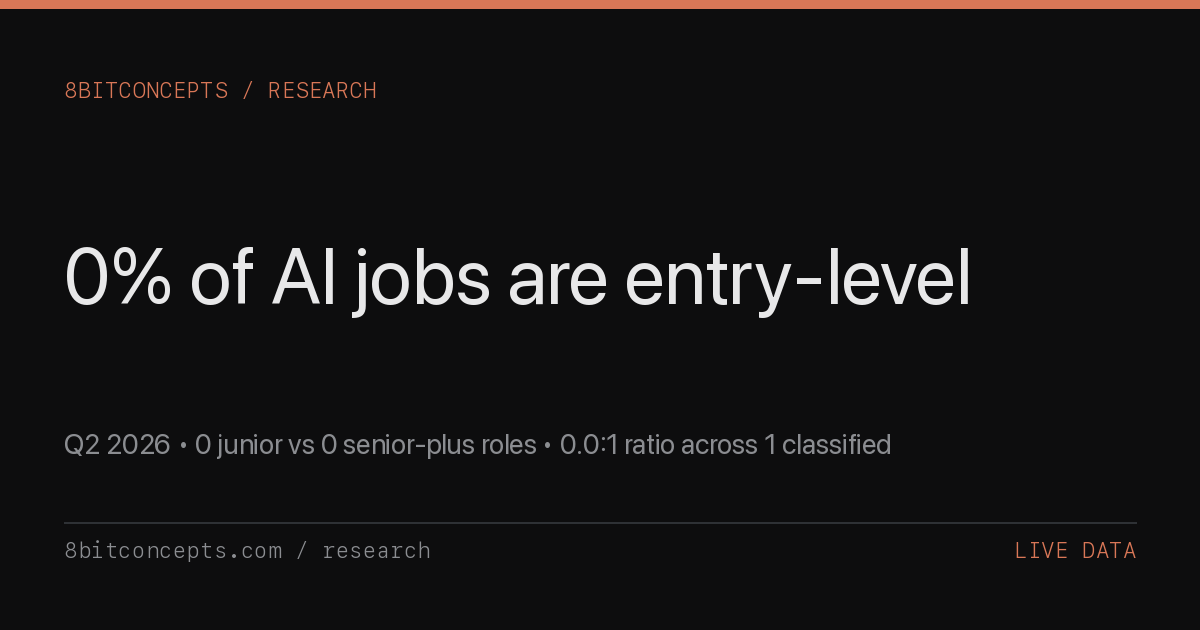
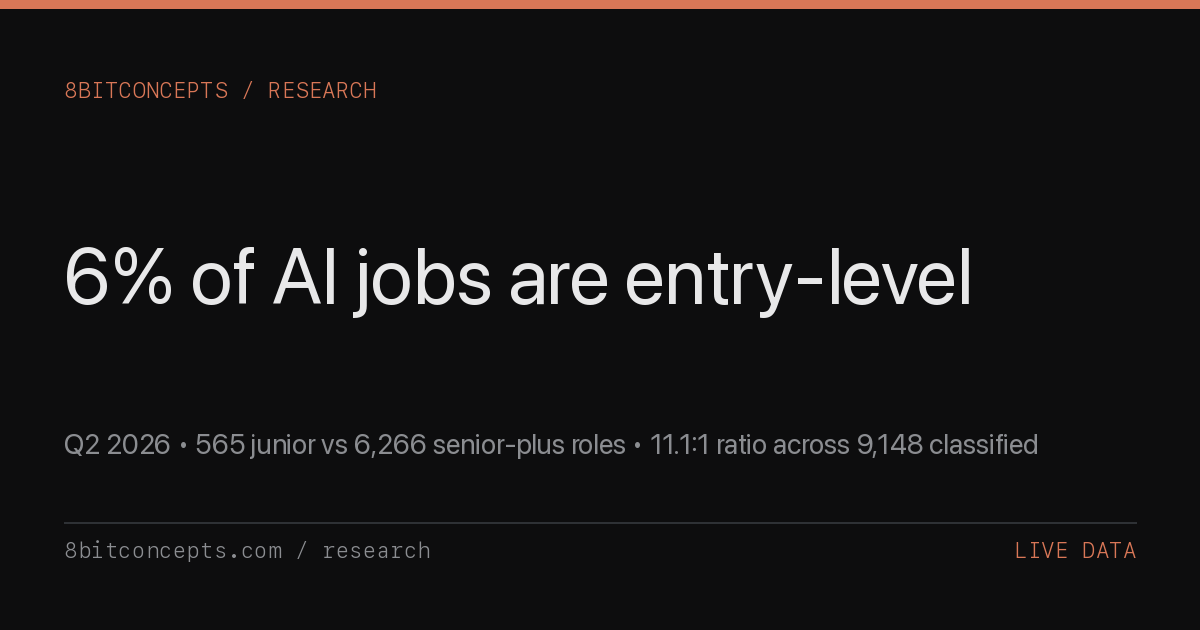
entry-level-gap: auto-regenerate 2026-07-27

diff --git a/research/q2-2026-entry-level-ai-gap.html b/research/q2-2026-entry-level-ai-gap.html
@@ -5,11 +5,11 @@
   <meta name="viewport" content="width=device-width, initial-scale=1.0" />
   <meta name="referrer" content="strict-origin-when-cross-origin" />
   <meta name="color-scheme" content="dark light" />
-  <meta name="last-updated" content="2026-07-20" />
+  <meta name="last-updated" content="2026-07-27" />
   <title>Q2 2026 The Junior AI Hiring Gap -- 8bitconcepts</title>
-  <meta name="description" content="Live analysis: only 0.0% of AI/ML engineering roles are open to juniors (0 of 1). &amp;infin;:1 senior-plus-to-junior ratio &amp;mdash; the tightest in tech. Why the squeeze exists, which companies still hire juniors, and the actionable path in. Auto-regenerated weekly." />
+  <meta name="description" content="Live analysis: only 6.2% of AI/ML engineering roles are open to juniors (565 of 9,148). 11.1:1 senior-plus-to-junior ratio &amp;mdash; the tightest in tech. Why the squeeze exists, which companies still hire juniors, and the actionable path in. Auto-regenerated weekly." />
   <meta property="og:title" content="Q2 2026 The Junior AI Hiring Gap -- 8bitconcepts" />
-  <meta property="og:description" content="0.0% of AI/ML roles are open to juniors. &amp;infin;:1 senior-plus ratio. 1 classified roles across 0 companies. Live data, 2026-07-20." />
+  <meta property="og:description" content="6.2% of AI/ML roles are open to juniors. 11.1:1 senior-plus ratio. 9,148 classified roles across 504 companies. Live data, 2026-07-27." />
   <meta property="og:type" content="article" />
   <meta property="og:url" content="https://8bitconcepts.com/research/q2-2026-entry-level-ai-gap.html" />
   <meta property="og:image" content="https://8bitconcepts.com/research/og/q2-2026-entry-level-ai-gap.png" />
@@ -17,7 +17,7 @@
   <meta property="og:image:height" content="630" />
   <meta name="twitter:card" content="summary_large_image" />
   <meta name="twitter:title" content="Q2 2026 The Junior AI Hiring Gap" />
-  <meta name="twitter:description" content="Only 0.0% of AI/ML jobs are entry-level. &amp;infin;:1 senior-plus ratio. 2026-07-20." />
+  <meta name="twitter:description" content="Only 6.2% of AI/ML jobs are entry-level. 11.1:1 senior-plus ratio. 2026-07-27." />
   <meta name="twitter:image" content="https://8bitconcepts.com/research/og/q2-2026-entry-level-ai-gap.png" />
   <link rel="canonical" href="https://8bitconcepts.com/research/q2-2026-entry-level-ai-gap.html" />
   <link rel="preconnect" href="https://fonts.googleapis.com" />
@@ -478,10 +478,10 @@
     "@context": "https://schema.org",
     "@type": "Article",
     "headline": "Q2 2026 The Junior AI Hiring Gap",
-    "description": "Live analysis of the junior AI hiring gap from aidevboard.com: experience-level mix, junior-friendly companies, salary gap, why the squeeze exists, and the actionable path in for career-switchers. Across 1 classified postings.",
+    "description": "Live analysis of the junior AI hiring gap from aidevboard.com: experience-level mix, junior-friendly companies, salary gap, why the squeeze exists, and the actionable path in for career-switchers. Across 9,148 classified postings.",
     "url": "https://8bitconcepts.com/research/q2-2026-entry-level-ai-gap.html",
     "datePublished": "2026-04-17",
-    "dateModified": "2026-07-20",
+    "dateModified": "2026-07-27",
     "author": {"@type": "Organization", "name": "8bitconcepts", "url": "https://8bitconcepts.com"},
     "publisher": {"@type": "Organization", "name": "8bitconcepts", "url": "https://8bitconcepts.com"},
     "image": "https://8bitconcepts.com/research/og/q2-2026-entry-level-ai-gap.png",
@@ -521,10 +521,10 @@
 
     <h1>Q2 2026 The Junior AI Hiring Gap</h1>
 
-    <p class="subtitle">Live experience-level data across 1 classified AI/ML engineering roles. Only 0.0% are open to juniors. For every entry-level opening there are &infin; senior-plus roles. Data pulled from <a href="https://aidevboard.com/api/v1/stats">aidevboard.com/api/v1/stats</a>.</p>
+    <p class="subtitle">Live experience-level data across 9,148 classified AI/ML engineering roles. Only 6.2% are open to juniors. For every entry-level opening there are 11.1 senior-plus roles. Data pulled from <a href="https://aidevboard.com/api/v1/stats">aidevboard.com/api/v1/stats</a>.</p>
 
     <div class="meta">
-      <span class="meta-date">2026-07-20</span>
+      <span class="meta-date">2026-07-27</span>
       <span class="meta-tag">Live Data</span>
       <span class="meta-read">~800 words</span>
     </div>
@@ -533,26 +533,26 @@
 
       <h2>Executive summary</h2>
 
-      <p>Only <strong>0.0%</strong> of 1 classified AI/ML engineering roles are open to juniors (0 of 1). For every entry-level opening there are <strong>&infin; senior-plus roles</strong> (0 senior + lead + principal). This is the tightest junior-to-senior ratio in any tech specialty tracked by the AI Dev Jobs index. Breaking in is statistically rarer than staying in.</p>
+      <p>Only <strong>6.2%</strong> of 9,148 classified AI/ML engineering roles are open to juniors (565 of 9,148). For every entry-level opening there are <strong>11.1 senior-plus roles</strong> (6,266 senior + lead + principal). This is the tightest junior-to-senior ratio in any tech specialty tracked by the AI Dev Jobs index. Breaking in is statistically rarer than staying in.</p>
 
       <div class="stat-row">
         <div class="stat-box">
-          <div class="stat-num">0.0%</div>
-          <div class="stat-label">of AI/ML roles open to juniors (0 of 1)</div>
+          <div class="stat-num">6.2%</div>
+          <div class="stat-label">of AI/ML roles open to juniors (565 of 9,148)</div>
         </div>
         <div class="stat-box">
-          <div class="stat-num">&infin;&times;</div>
+          <div class="stat-num">11.1&times;</div>
           <div class="stat-label">senior-plus roles for every 1 junior role in the index</div>
         </div>
         <div class="stat-box">
-          <div class="stat-num">0%</div>
+          <div class="stat-num">68%</div>
           <div class="stat-label">of AI/ML roles are senior, lead, or principal</div>
         </div>
       </div>
 
       <h2>The squeeze: experience-level mix</h2>
 
-      <p>Across the 1 AI/ML engineering postings with an experience-level classification, the distribution is top-heavy. Junior is the smallest band; senior, lead, and principal together account for 0%.</p>
+      <p>Across the 9,148 AI/ML engineering postings with an experience-level classification, the distribution is top-heavy. Junior is the smallest band; senior, lead, and principal together account for 68%.</p>
 
       <table class="data-table">
         <thead>
@@ -563,39 +563,39 @@
           </tr>
         </thead>
         <tbody>
-          <tr><td>Junior / Entry-level</td><td class="num">0</td><td class="num">0.0%</td></tr>
-          <tr><td>Mid</td><td class="num">0</td><td class="num">0.0%</td></tr>
-          <tr><td>Senior</td><td class="num">0</td><td class="num">0.0%</td></tr>
-          <tr><td>Lead / Staff</td><td class="num">0</td><td class="num">0.0%</td></tr>
-          <tr><td>Principal</td><td class="num">0</td><td class="num">0.0%</td></tr>
+          <tr><td>Junior / Entry-level</td><td class="num">565</td><td class="num">6.2%</td></tr>
+          <tr><td>Mid</td><td class="num">2,317</td><td class="num">25.3%</td></tr>
+          <tr><td>Senior</td><td class="num">3,095</td><td class="num">33.8%</td></tr>
+          <tr><td>Lead / Staff</td><td class="num">2,545</td><td class="num">27.8%</td></tr>
+          <tr><td>Principal</td><td class="num">626</td><td class="num">6.8%</td></tr>
         </tbody>
       </table>
 
       <div class="bar-chart">
         <div class="bar-row">
           <div class="bar-label">Junior</div>
-          <div class="bar-wrap"><div class="bar" style="width:0.0%;"></div></div>
-          <div class="bar-value">0</div>
+          <div class="bar-wrap"><div class="bar" style="width:18.3%;"></div></div>
+          <div class="bar-value">565</div>
         </div>
         <div class="bar-row">
           <div class="bar-label">Mid</div>
-          <div class="bar-wrap"><div class="bar" style="width:0.0%;"></div></div>
-          <div class="bar-value">0</div>
+          <div class="bar-wrap"><div class="bar" style="width:74.9%;"></div></div>
+          <div class="bar-value">2,317</div>
         </div>
         <div class="bar-row">
           <div class="bar-label">Senior</div>
-          <div class="bar-wrap"><div class="bar" style="width:0.0%;"></div></div>
-          <div class="bar-value">0</div>
+          <div class="bar-wrap"><div class="bar" style="width:100.0%;"></div></div>
+          <div class="bar-value">3,095</div>
         </div>
         <div class="bar-row">
           <div class="bar-label">Lead</div>
-          <div class="bar-wrap"><div class="bar" style="width:0.0%;"></div></div>
-          <div class="bar-value">0</div>
+          <div class="bar-wrap"><div class="bar" style="width:82.2%;"></div></div>
+          <div class="bar-value">2,545</div>
         </div>
         <div class="bar-row">
           <div class="bar-label">Principal</div>
-          <div class="bar-wrap"><div class="bar" style="width:0.0%;"></div></div>
-          <div class="bar-value">0</div>
+          <div class="bar-wrap"><div class="bar" style="width:20.2%;"></div></div>
+          <div class="bar-value">626</div>
         </div>
       </div>
 
@@ -605,19 +605,19 @@
 
       <h2>What &quot;junior AI&quot; actually pays</h2>
 
-      <p>The public stats endpoint does not expose salary by experience band directly &mdash; it publishes a single global average ($0) and a global median ($0) across the 0-posting salary-disclosed subset. But we can triangulate: of the disclosed postings, 0 advertise a midpoint under $150k (a reasonable proxy for the entry-level band), while 0 advertise $300k+. If junior supply is 0% of roles, the under-$150k band is <strong>roughly aligned with</strong> that share &mdash; meaning advertised junior AI pay typically lands in the $100k-$150k range, well above non-AI entry-level engineering but well below the $0 index median. <strong>Data gap flag:</strong> the next iteration of this report will break salary by experience band once the <code>/api/v1/stats</code> endpoint exposes it.</p>
+      <p>The public stats endpoint does not expose salary by experience band directly &mdash; it publishes a single global average ($232,885) and a global median ($220,000) across the 3,536-posting salary-disclosed subset. But we can triangulate: of the disclosed postings, 353 advertise a midpoint under $150k (a reasonable proxy for the entry-level band), while 595 advertise $300k+. If junior supply is 6% of roles, the under-$150k band is <strong>roughly at odds with</strong> that share &mdash; meaning advertised junior AI pay typically lands in the $100k-$150k range, well above non-AI entry-level engineering but well below the $220,000 index median. <strong>Data gap flag:</strong> the next iteration of this report will break salary by experience band once the <code>/api/v1/stats</code> endpoint exposes it.</p>
 
       <h2>Why the squeeze exists</h2>
 
-      <p>Three structural reasons explain the junior squeeze. <strong>Judgment under uncertainty.</strong> AI/ML engineering outputs (prompts, evals, RAG retrievers, agent pipelines) don't have deterministic unit tests &mdash; they require a senior's pattern-matching to spot when a system is quietly wrong. Companies willing to pay $0 average don't want to train that judgment from scratch. <strong>Compute-cost economics.</strong> A senior engineer ships iterations against GPU-hours that cost $5-$50 per experiment. The efficiency delta between a senior and a junior running GPU jobs compounds faster than it does in CRUD web development, so staffing leans toward senior. <strong>The ML-plus-LLM double requirement.</strong> Companies hiring for &quot;AI&quot; in 2026 typically want traditional ML fluency (PyTorch, distributed training, MLOps &mdash; the 0 postings combining those skills) <em>plus</em> recent LLM / agent experience. Juniors rarely have both simultaneously.</p>
+      <p>Three structural reasons explain the junior squeeze. <strong>Judgment under uncertainty.</strong> AI/ML engineering outputs (prompts, evals, RAG retrievers, agent pipelines) don't have deterministic unit tests &mdash; they require a senior's pattern-matching to spot when a system is quietly wrong. Companies willing to pay $232,885 average don't want to train that judgment from scratch. <strong>Compute-cost economics.</strong> A senior engineer ships iterations against GPU-hours that cost $5-$50 per experiment. The efficiency delta between a senior and a junior running GPU jobs compounds faster than it does in CRUD web development, so staffing leans toward senior. <strong>The ML-plus-LLM double requirement.</strong> Companies hiring for &quot;AI&quot; in 2026 typically want traditional ML fluency (PyTorch, distributed training, MLOps &mdash; the 2,137 postings combining those skills) <em>plus</em> recent LLM / agent experience. Juniors rarely have both simultaneously.</p>
 
       <h2>Bootcamps, CS grads, and career-switchers</h2>
 
-      <p><strong>Is the bootcamp path viable?</strong> The data says: narrow pipe, not closed pipe. The junior AI/ML market is roughly 0 roles &mdash; a fraction of the 1-role total, but still 0 concrete opportunities across 0 companies in the index. The realistic read for a career-switcher: (1) the generic &quot;AI engineer&quot; bootcamp targeting LLMs alone will not beat an ML-native CS grad on the same req, (2) the working angle is a <em>domain wedge</em> &mdash; AI-for-robotics, AI-for-healthcare, AI-for-security, AI-for-legal &mdash; where the ML stack is a smaller share of the role than the domain knowledge, (3) research labs (Anthropic, OpenAI, DeepMind) post &quot;Resident&quot; and &quot;Fellow&quot; tracks that function as senior-paid junior seats. These look like the highest-leverage entry points in the current market. The 7% share is a filter, not a ceiling.</p>
+      <p><strong>Is the bootcamp path viable?</strong> The data says: narrow pipe, not closed pipe. The junior AI/ML market is roughly 565 roles &mdash; a fraction of the 9,148-role total, but still 565 concrete opportunities across 504 companies in the index. The realistic read for a career-switcher: (1) the generic &quot;AI engineer&quot; bootcamp targeting LLMs alone will not beat an ML-native CS grad on the same req, (2) the working angle is a <em>domain wedge</em> &mdash; AI-for-robotics, AI-for-healthcare, AI-for-security, AI-for-legal &mdash; where the ML stack is a smaller share of the role than the domain knowledge, (3) research labs (Anthropic, OpenAI, DeepMind) post &quot;Resident&quot; and &quot;Fellow&quot; tracks that function as senior-paid junior seats. These look like the highest-leverage entry points in the current market. The 7% share is a filter, not a ceiling.</p>
 
       <h2>Companies that DO hire juniors</h2>
 
-      <p>The rolling sample this cycle did not surface companies crossing the 3-junior-titles threshold. Re-run after the weekly crawl completes for a fuller company-level view.</p>
+      <p>The 4 companies below showed at least 3 junior-titled AI/ML roles in the sampled paginated index walk. Titles counted as junior match <code>junior</code>, <code>jr</code>, <code>entry-level</code>, <code>new grad</code>, <code>associate</code>, <code>intern</code>, or <code>early career</code>. These are the companies most worth watching if you're breaking in &mdash; frontier labs and large AI-first companies still post entry-level seats, even when the aggregate mix is 6% junior.</p>
 
       <table class="data-table">
         <thead>
@@ -629,17 +629,20 @@
           </tr>
         </thead>
         <tbody>
-          <tr><td colspan="4">Insufficient sample this cycle to surface junior-friendly companies (no company crossed the 3-junior-titles threshold in the paginated sample).</td></tr>
+          <tr><td>May Mobility</td><td class="num">19</td><td class="num">5</td><td class="num">26%</td></tr>
+          <tr><td>Pinterest</td><td class="num">25</td><td class="num">5</td><td class="num">20%</td></tr>
+          <tr><td>Lila Sciences</td><td class="num">26</td><td class="num">4</td><td class="num">15%</td></tr>
+          <tr><td>Torc Robotics</td><td class="num">12</td><td class="num">3</td><td class="num">25%</td></tr>
         </tbody>
       </table>
 
       <h2>Signal for job seekers</h2>
 
-      <p><strong>If you're trying to break in.</strong> Don't optimize for the 0-company index overall &mdash; the signal is too diluted. Target the 13% of companies actually posting junior seats (see table above). Apply to research-lab residency programs that pay senior-band salaries to juniors. Specialize in a non-trivial domain (robotics, biotech, finance, defense) before the AI layer &mdash; <em>AI-for-X</em> always hires junior talent faster than pure-ML orgs do, because the domain expertise is the harder-to-hire input.</p>
+      <p><strong>If you're trying to break in.</strong> Don't optimize for the 504-company index overall &mdash; the signal is too diluted. Target the 4 of companies actually posting junior seats (see table above). Apply to research-lab residency programs that pay senior-band salaries to juniors. Specialize in a non-trivial domain (robotics, biotech, finance, defense) before the AI layer &mdash; <em>AI-for-X</em> always hires junior talent faster than pure-ML orgs do, because the domain expertise is the harder-to-hire input.</p>
 
       <h2>Methodology</h2>
 
-      <p>Generated from the live <a href="https://aidevboard.com/api/v1/stats">aidevboard.com/api/v1/stats</a> endpoint (public, unauthenticated) plus a paginated walk of <a href="https://aidevboard.com/api/v1/jobs">/api/v1/jobs</a> for per-company experience-level aggregation. Index scrapes 560+ ATS sources on a daily cron and deduplicates by (company, title, location). The <code>experience_level</code> field is classified by a rules-based parser from title + seniority signals &mdash; see <a href="https://github.com/unitedideas/aidevboard-mcp">open-source parser</a>. Per-company junior counts in this paper use a title-regex fallback (<code>junior</code>, <code>jr</code>, <code>entry-level</code>, <code>new grad</code>, <code>associate</code>, <code>intern</code>, <code>early career</code>) over the paginated job sample &mdash; they're a proxy, not a source of truth, and skew conservative (any title with &quot;senior&quot; anywhere is dropped from the junior bucket). Of 0 roles in the index, 1 have a non-empty experience-level classification. Salary averages are from the 0-posting salary-disclosed subset. This page auto-regenerates weekly (Mon 9:15 am PT).</p>
+      <p>Generated from the live <a href="https://aidevboard.com/api/v1/stats">aidevboard.com/api/v1/stats</a> endpoint (public, unauthenticated) plus a paginated walk of <a href="https://aidevboard.com/api/v1/jobs">/api/v1/jobs</a> for per-company experience-level aggregation. Index scrapes 560+ ATS sources on a daily cron and deduplicates by (company, title, location). The <code>experience_level</code> field is classified by a rules-based parser from title + seniority signals &mdash; see <a href="https://github.com/unitedideas/aidevboard-mcp">open-source parser</a>. Per-company junior counts in this paper use a title-regex fallback (<code>junior</code>, <code>jr</code>, <code>entry-level</code>, <code>new grad</code>, <code>associate</code>, <code>intern</code>, <code>early career</code>) over the paginated job sample &mdash; they're a proxy, not a source of truth, and skew conservative (any title with &quot;senior&quot; anywhere is dropped from the junior bucket). Of 9,148 roles in the index, 9,148 have a non-empty experience-level classification. Salary averages are from the 3,536-posting salary-disclosed subset. This page auto-regenerates weekly (Mon 9:15 am PT).</p>
 
       <p><strong>Download raw data:</strong> The experience-level + per-company junior dataset is mirrored as a public gist &mdash; <a href="https://gist.githubusercontent.com/unitedideas/d400d2d9a85692b758b96ab5fe741a22/raw/ai-entry-level.csv">CSV</a> &middot; <a href="https://gist.githubusercontent.com/unitedideas/d400d2d9a85692b758b96ab5fe741a22/raw/ai-entry-level.md">Markdown</a> &middot; <a href="https://gist.github.com/unitedideas/d400d2d9a85692b758b96ab5fe741a22">view on GitHub</a>. Auto-updated every weekly regeneration; canonical raw URLs are stable across revisions.</p>
 
@@ -689,7 +692,7 @@
     <div class="footnotes">
       <h4>Sources</h4>
       <ol>
-        <li>AI Dev Jobs &mdash; <a href="https://aidevboard.com/api/v1/stats">/api/v1/stats</a>, pulled 2026-07-20T16:15:01Z. Public unauthenticated endpoint.</li>
+        <li>AI Dev Jobs &mdash; <a href="https://aidevboard.com/api/v1/stats">/api/v1/stats</a>, pulled 2026-07-27T16:15:01Z. Public unauthenticated endpoint.</li>
         <li>AI Dev Jobs &mdash; <a href="https://aidevboard.com/api/v1/jobs">/api/v1/jobs</a>, paginated walk for per-company junior-title aggregation.</li>
         <li>Experience-level classification is derived from job title + seniority signals by a rules-based parser. Per-company junior counts use a title-regex fallback (<code>junior</code>, <code>jr</code>, <code>entry-level</code>, <code>new grad</code>, <code>associate</code>, <code>intern</code>, <code>early career</code>).</li>
         <li>Salary figures are employer-advertised midpoints from public ATS feeds. The stats endpoint does not currently break salary by experience band; we triangulate from distribution buckets.</li>
